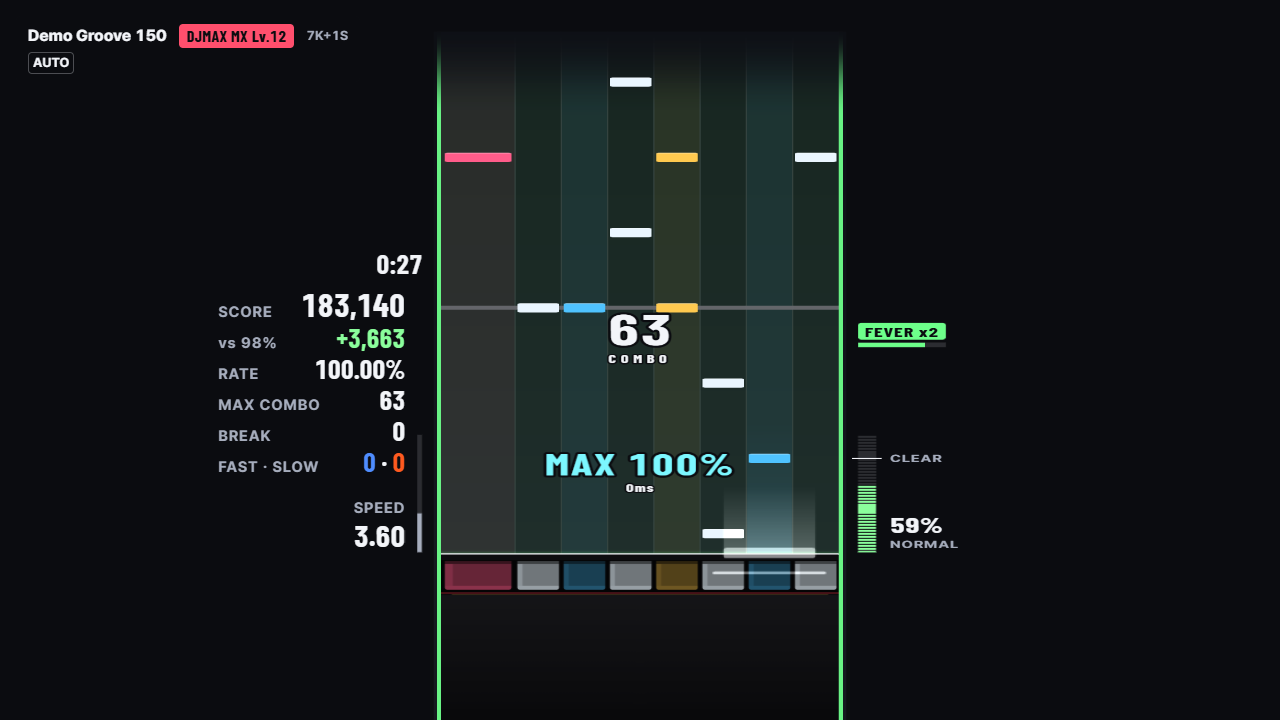
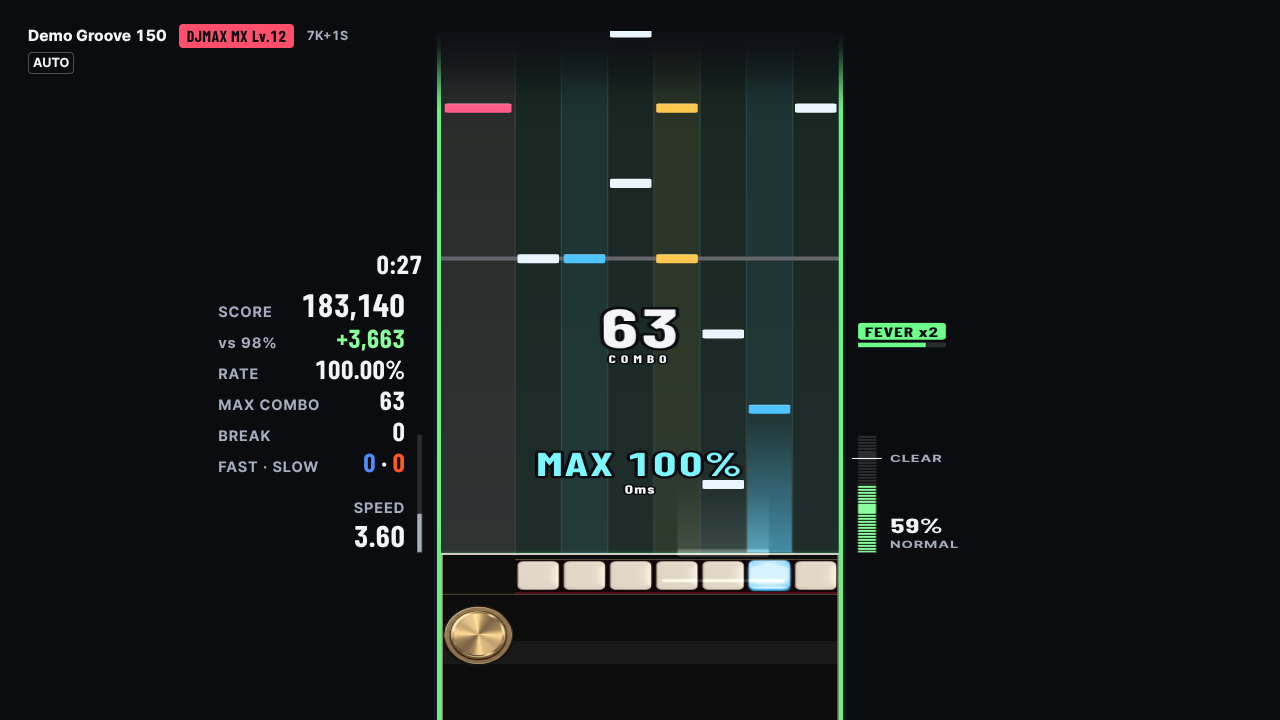
Docs: the piano set and the walnut veneer, with screenshots
README: a screenshot of the piano set in mahogany (32-piano-mahogany) and of
the mixer in walnut veneer (33-club-walnut), both 7K+1S; the piano note family
(a key front with a brass inlay) and its long note (a lacquered key) among the
families that mark every key; the grand piano gear as the set draws it (ivory
keys lit in the lane colour, a brass dial, lacquer and felt) and its
colourways; the walnut grain across the mixer's channel strips; five sets in
the credits; the unit test count (376) and the e2e test of the sets, which now
plays the piano set too. The screenshots of the default grand piano gear, now
drawn from art, and of the settings with the new help are shot again.

ARCHITECTURE: the grand piano in the gear (keys filling the code gear's key
box, ivory at rest, lacquer or veneer plates) and the walnut veneer, the piano
family in the note shapes and the piano hit in the skin textures, and a row
for the piano set and the walnut veneer. TESTING: the manual check of the
piano set and its colourways, and of the walnut mixer. The screenshot spec
shoots the piano set in mahogany and the mixer in walnut.

고친 문제:
- 문서와 스크린샷에 피아노 세트가 없었고 그랜드 피아노 기어를 코드 그림 그대로 설명했으며, 월넛 우드에 나무결이 판 전체에 들어간 것을 적지 않았다. 피아노 세트의 부위·기어 색·그림이 없을 때의 동작과 월넛 나무결을 적고, 스크린샷을 더하고 다시 찍었다.

Claude-Session: https://claude.ai/code/session_01BwEeGPydwWxbHMk4SP9G9k

diff --git a/client/e2e/screenshots.spec.ts b/client/e2e/screenshots.spec.ts
@@ -325,7 +325,7 @@ test('play: the flat PLANE camera, with the judge counter and a pacemaker', asyn
   await shot(page, '20-play-plane');
 });
 
-test('play: four of the skins, and the four sets each in a gear colour of its own', async ({ page }) => {
+test('play: four of the skins, and the five sets each in a gear colour of its own', async ({ page }) => {
   // also runs on its own (-g "four of the skins"): makes the showcase song when it is missing
   await page.goto('/');
   const songs = (await (await page.request.get('/api/songs')).json()).songs as { title: string }[];
@@ -349,6 +349,8 @@ test('play: four of the skins, and the four sets each in a gear colour of its ow
     ['club', { note: 'round', side: 'bar', deck: 'mixer', deckColour: 'silver', hit: 'club' }, '29-club-silver'],
     ['glass', { note: 'star4', side: 'bar', deck: 'crystal', deckColour: 'rosegold', hit: 'crystal' }, '30-crystal-rosegold'],
     ['neon', { note: 'star5', side: 'bar', deck: 'neon', deckColour: 'burgundy', hit: 'neon' }, '31-neon-burgundy'],
+    ['flat', { note: 'piano', side: 'bar', deck: 'grand', deckColour: 'mahogany', hit: 'piano' }, '32-piano-mahogany'],
+    ['club', { note: 'round', side: 'bar', deck: 'mixer', deckColour: 'walnut', hit: 'club' }, '33-club-walnut'],
   ] as const) {
     await settings(page, { lastKeyMode: '7K+1S', skin, parts, cameraPreset: 'SDVX', hiSpeed: 3, fever: 'OFF' });
     await selectShowcase(page, '7K+1S', 'MAXIMUM');
